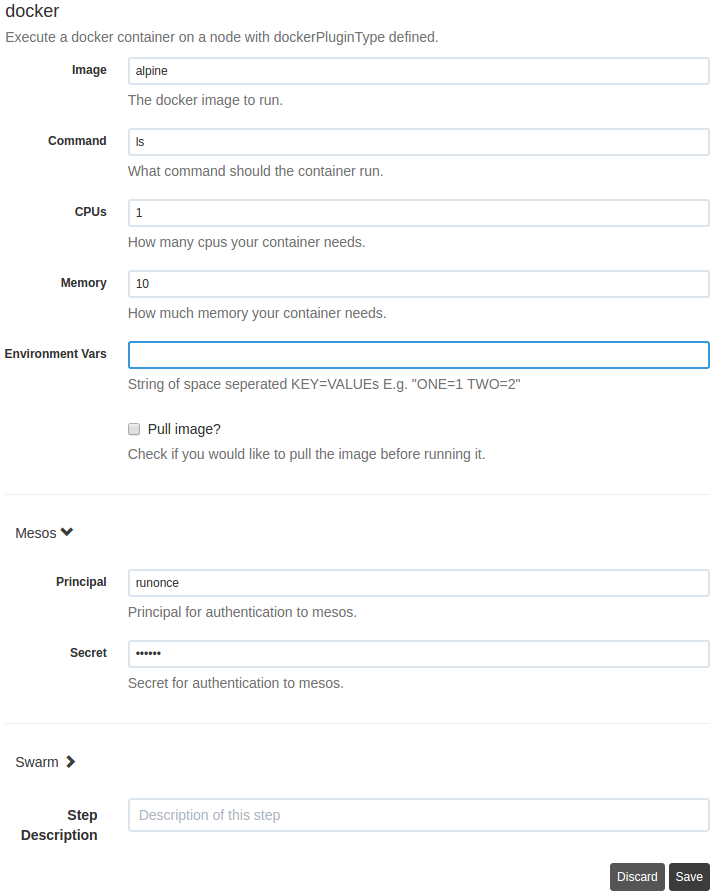
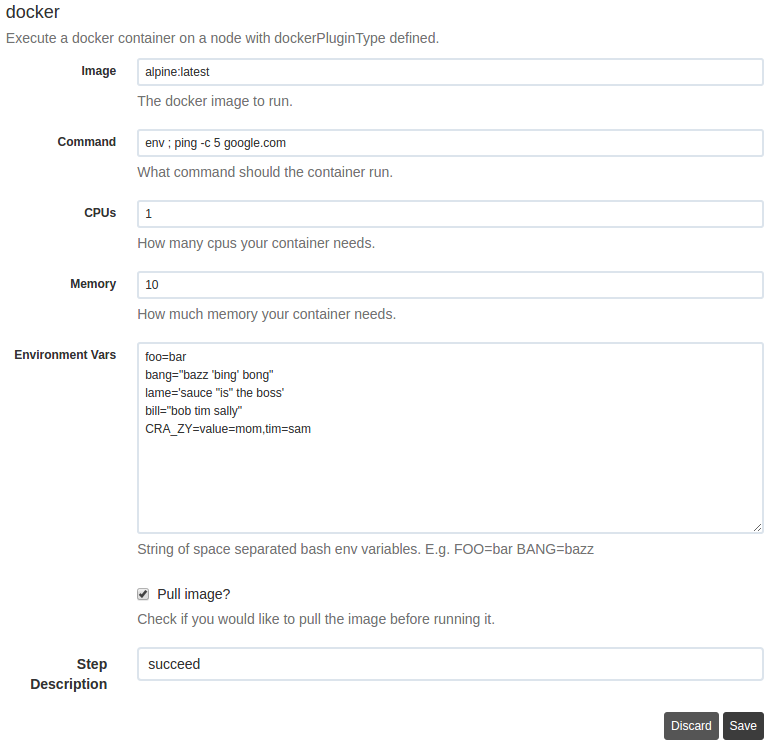
Updating the README and screenshot.

diff --git a/README.md b/README.md
@@ -18,8 +18,6 @@ mesos-host:
 
 # Shortcomings
 - Only `dockerPluginType` of `mesos` currently works.
-- "Environment Vars" doesn't work yet.
-- "Pull image?" check box doesn't work yet.
 
 # Usage
 To get this working you will need:
